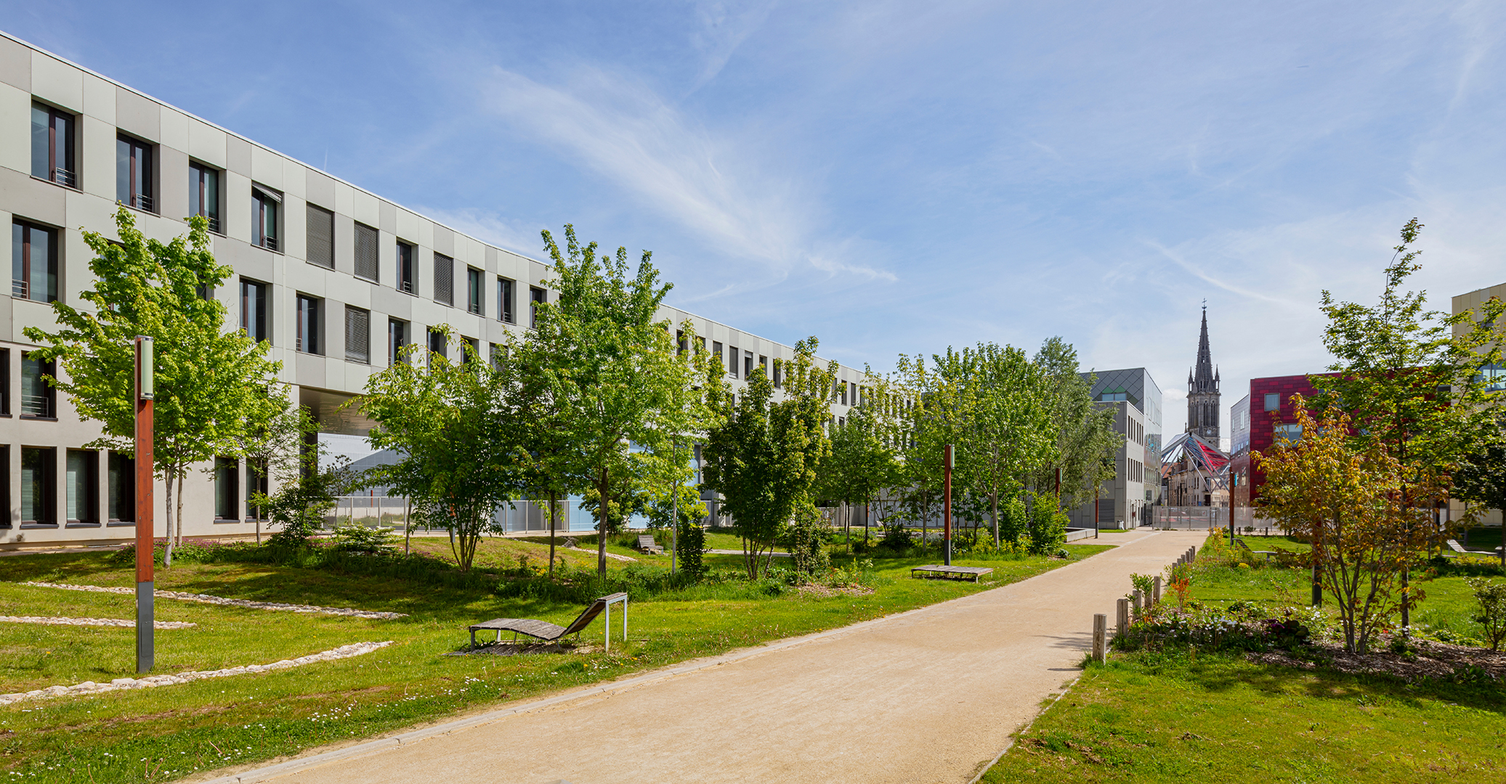
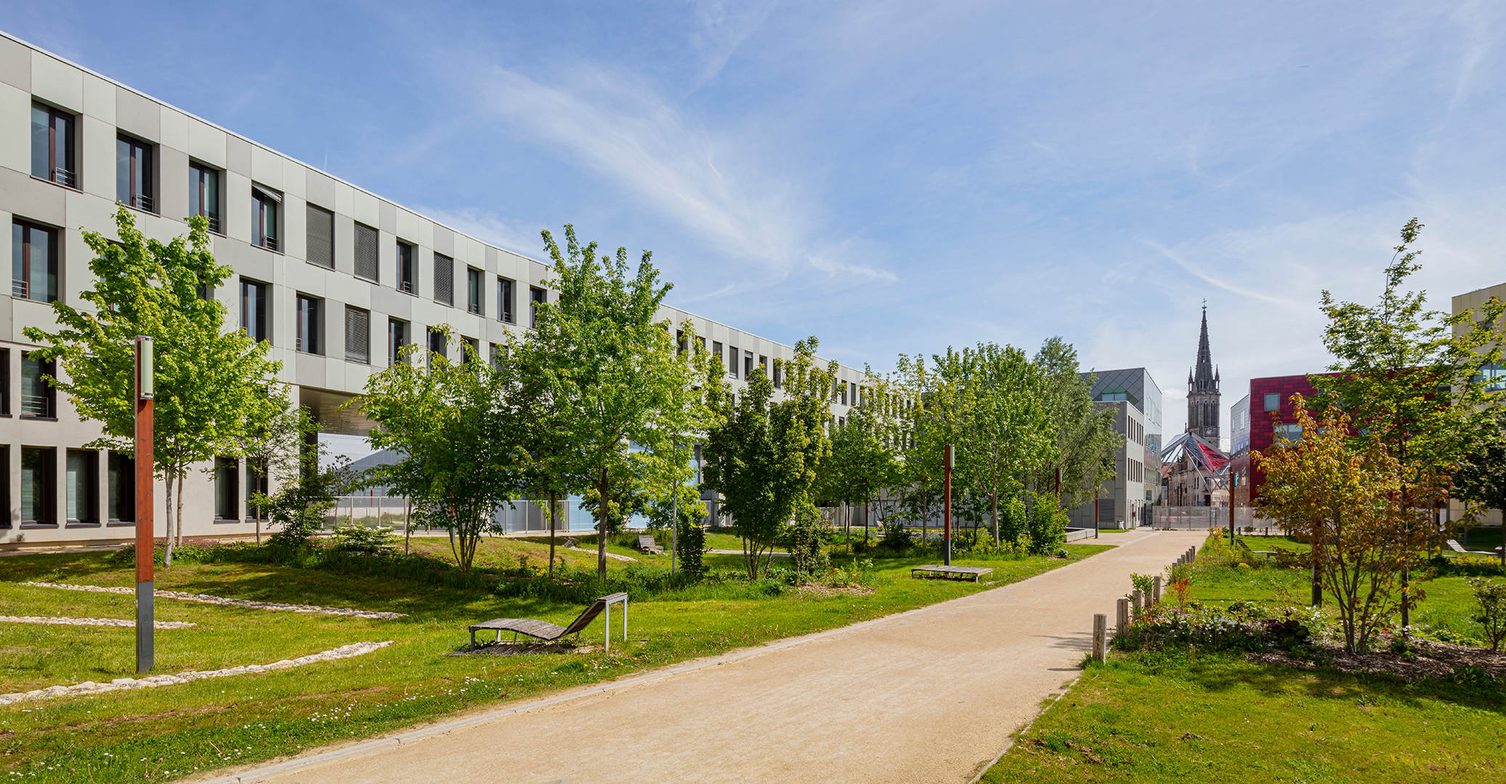
Reduced images weight to speed up loading

diff --git a/index.html b/index.html
@@ -192,7 +192,7 @@
                         </div>
 
                         <div class="artists-thumb">
-                            <img src="images/diy.png"
+                            <img src="images/diy.jpg"
                                 class="artists-image img-fluid">
 
                             <div class="artists-hover">
